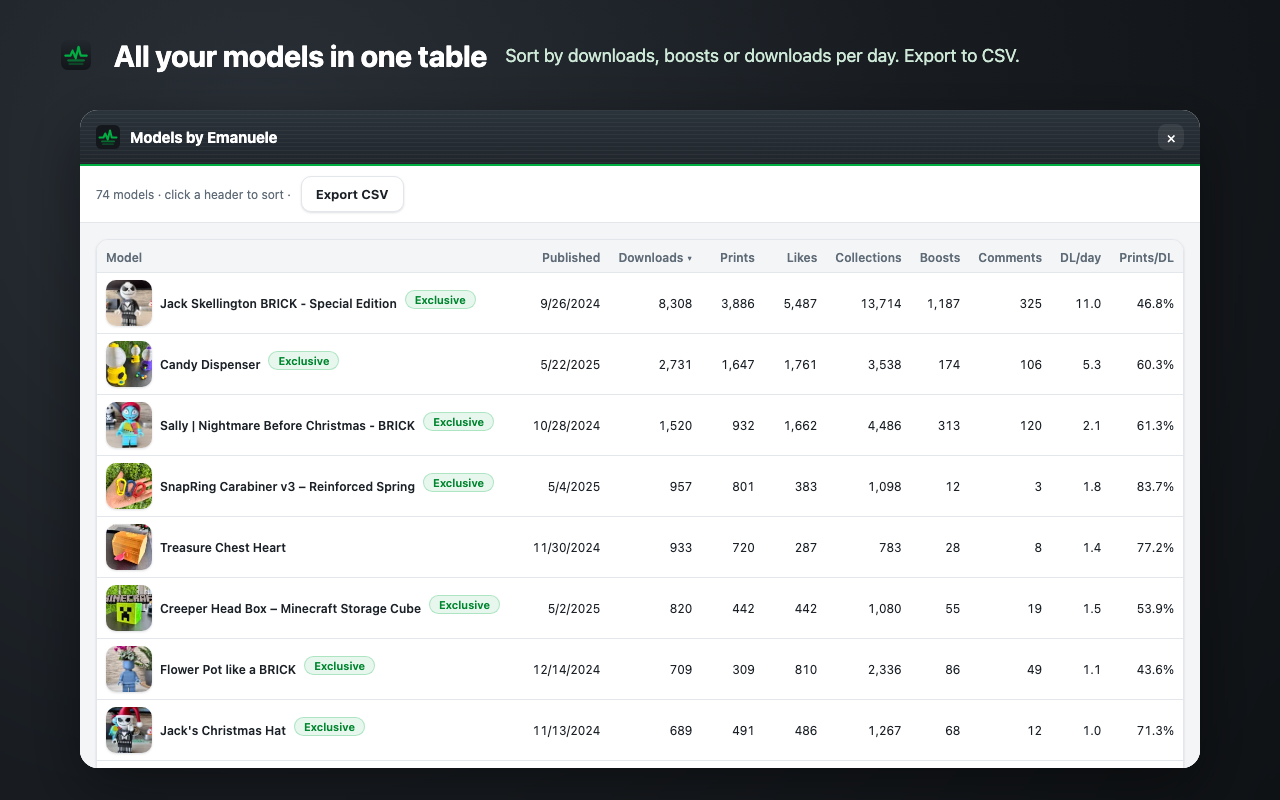
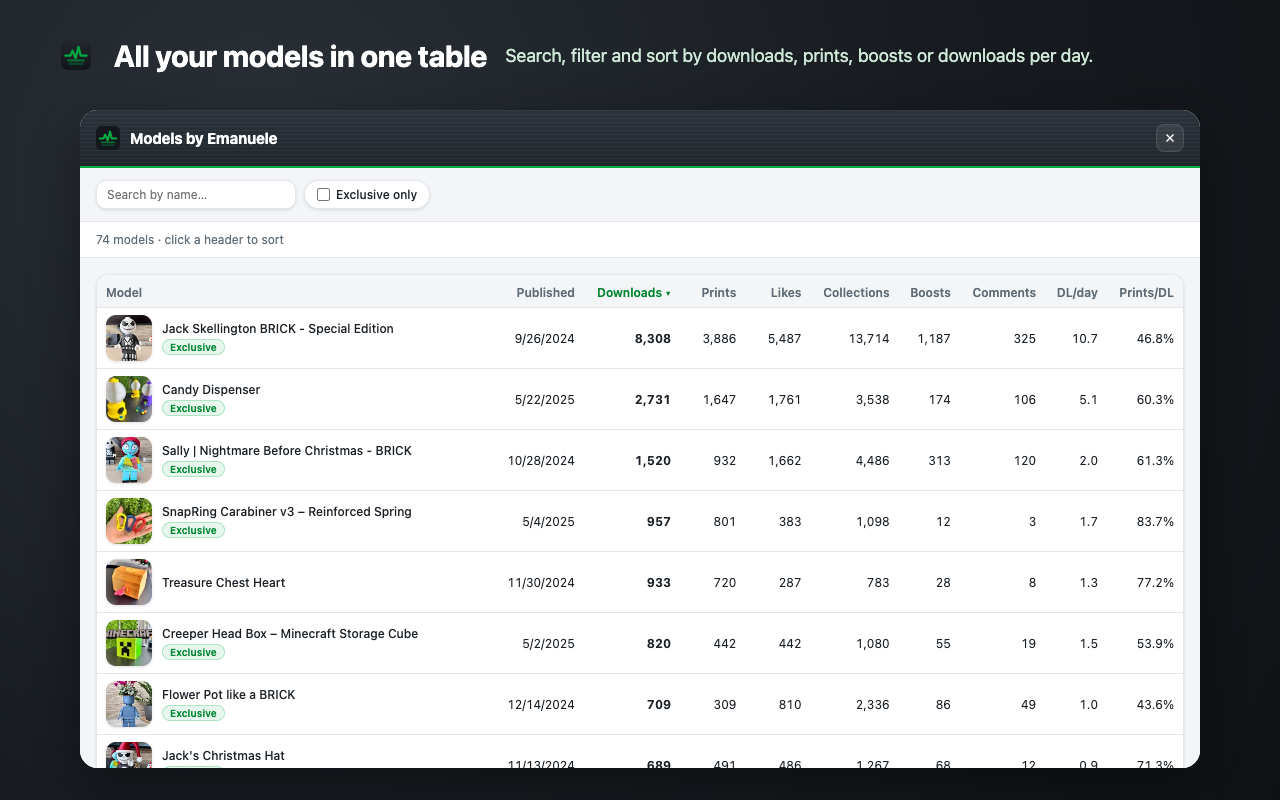
MakerPulse 1.1.0
- Version 1.1.0 and updated store descriptions (EN/IT)
- New screenshots: To reply, Trends, review filter, models table
- README: updated tagline, features and Italian summary

diff --git a/README.md b/README.md
@@ -1,7 +1,7 @@
 <p align="center"><img src="extension/icons/128.png" width="96" alt="MakerPulse"></p>
 
 <h1 align="center">MakerPulse</h1>
-<p align="center">Stats, points, gift cards, review filters and quick replies for <a href="https://makerworld.com">MakerWorld</a> creators.</p>
+<p align="center">Stats, points, gift cards, replies from one inbox, review filters and trends for <a href="https://makerworld.com">MakerWorld</a> creators.</p>
 
 <p align="center">
   <a href="https://github.com/emanueletech/makerpulse/releases/latest/download/makerpulse.zip"><img src="https://img.shields.io/badge/Download-ZIP-00AE42?style=for-the-badge&logo=github&logoColor=white" alt="Download ZIP"></a>
@@ -27,9 +27,10 @@
 </p>
 
 <p align="center">
-  <img src="docs/screenshots/comments.png" width="32%" alt="Review filter">
-  <img src="docs/screenshots/replies.png" width="32%" alt="Quick replies">
-  <img src="docs/screenshots/table.png" width="32%" alt="Models table">
+  <img src="docs/screenshots/inbox.png" width="49%" alt="To reply: answer comments and reviews from one list">
+  <img src="docs/screenshots/trends.png" width="49%" alt="Trends: points per day and top models">
+  <img src="docs/screenshots/comments.png" width="49%" alt="Review filter">
+  <img src="docs/screenshots/table.png" width="49%" alt="Models table">
 </p>
 
 ---
@@ -37,15 +38,15 @@
 ## Features
 
 - **Model page** – downloads, prints, likes, collections, boosts, comments, print/download and like/download ratios, downloads per day, per-profile breakdown (downloads, prints, rating, print time). On your own models: points earned (total, last 30 and 7 days, from boosts) and their gift card value.
-- **Points & gift cards** – total, exclusive and regular points, points earned in the last 7 and 30 days, how many gift cards you can redeem per region and how many points to the next one, cash redemption amount, top-earning models.
+- **Points & gift cards** – total, exclusive and regular points, points earned in the last 7 and 30 days, how many gift cards you can redeem per region and how many points to the next one, cash redemption amount, top-earning models (collapsible).
 - **Reviews & comments** – loads every comment and filters by stars, text, photos, successful print, boost, or unanswered; search and sorting. Click a result to jump to it on the page.
 - **To reply** – every review and comment you haven't answered yet, across all your models, in one list (filter by period, text, photos). Reply right from the list with **Reply**: your quick replies are there in the commenter's language, and answered items drop off the list.
-- **Trends** – daily snapshots of your models saved in your browser: downloads per day, points per day, which models are growing or slowing down.
+- **Trends** – summary cards (points in the last 7 and 30 days, daily average, change vs the previous 30 days, best day), downloads and points per day with the average line, and which models earn the most. Model snapshots are saved only in your browser.
 - **Forecasts & boosters** – the date you'll reach the next gift card or the cash minimum at your current pace, and who boosted you in the last 30 days.
 - **Model cards** – prints, boosts, print rate and hot score shown on every model card on home, search and profile pages.
 - **Models table** – every model of a creator in a sortable table with name search, an exclusive-only filter and totals (with points per model on your own profile).
 - **Quick replies** – your saved replies appear above any comment or reply box, in the language of the person you're replying to (Italian or English); hover to read the full text, click to insert. Edit them in the popup or save what you just typed with `+`.
-- **Movable panel** – drag the panel by its title bar and it stays where you leave it; collapsed, it shrinks to a small logo button.
+- **Movable panel** – drag the panel by its title bar and it stays where you leave it; collapsed, it shrinks to a small logo button. Animated numbers and loading bars.
 - Works with every MakerWorld language and with in-site navigation (no reload needed). English and Italian interface.
 
 ## Install
@@ -79,7 +80,7 @@ MakerPulse is an independent project and is not affiliated with Bambu Lab or Mak
 
 ## Italiano
 
-Estensione per i creator di MakerWorld: statistiche dei modelli, punti e gift card, filtro di commenti e recensioni, tabella dei modelli con ricerca e totali e risposte rapide ai commenti. Interfaccia in italiano se il browser è in italiano.
+Estensione per i creator di MakerWorld: statistiche dei modelli, punti e gift card, una lista "Da rispondere" da cui rispondere a commenti e recensioni senza aprire il modello, filtro di commenti e recensioni, andamento di punti e download, tabella dei modelli con ricerca e totali e risposte rapide ai commenti. Interfaccia in italiano se il browser è in italiano.
 
 **Installazione:** dal [Chrome Web Store](https://chromewebstore.google.com/detail/moiomhlofgpbiifcjblcaefcebnccblp), da [Edge Add-ons](https://microsoftedge.microsoft.com/addons/detail/aihonfmgicmamchimkdceleomgbbndec) o da [Firefox Add-ons](https://addons.mozilla.org/addon/makerpulse-makerworld/) (Firefox 140 o successivo): si aggiorna da sola.
 
